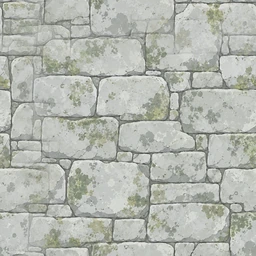
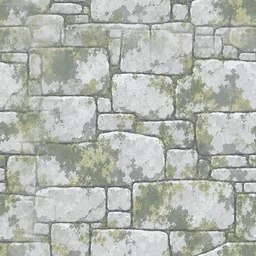
art(geo): 苔石牆材質 moss_stone（256×256 四邊無縫）ver -1224
Ray 交規格：「四邊可無縫平鋪、正面平視的石面…苔痕約三成…
底色冷灰白 (180,183,176)…⛔ 不要方向性（會貼在牆與頂面兩種方向）」
→「讓 gpt 生個 pixel tile」，第三版直接照 Ray 自己寫的提示詞跑。

- flight/geo/moss_stone.webp　256×256（同 castle_wall/flight_ruins 規格）
  平均 RGB (179,183,176)／苔覆蓋 29.2%／方向性 1.67・−1.08（滿分 255）
  接縫 11.43・10.27 vs 內部相鄰 11.06・12.71 ⇒ 跨接縫不比往旁邊走一格更跳

- tools/tile_seamless.py（新）：border cross-fade ＋ 驗收
  ⚠⚠ 圖像模型給的「無縫」是假的：三張原圖的接縫都是內部的 1.5~2.7 倍。
  ⚠⚠ 第一版我把 cross-fade 寫成「兩帶各自往對方靠」，接縫 12→35 ——
     那只是把兩邊弄糊，邊界值仍然不相等。已回收，作法寫在 _moss_stone.md §二。

- ⚠ 還沒接線（繪圖 session 只交檔）：程式端把 RUIN_ART.muyak.tex
  由 'castle_wall' 改成 'moss_stone' 即可；新檔不必動 RUIN_TEX_VER。

diff --git a/tools/tile_seamless.py b/tools/tile_seamless.py
@@ -1,0 +1,101 @@
+#!/usr/bin/env python3
+"""把一張材質圖做成「四邊真的接得起來」的平鋪 tile，並驗收。
+
+用法：
+    python3 tools/tile_seamless.py <來源.png> <輸出.webp> [--size 256] [--target 180,183,176]
+
+⚠⚠ 為什麼要這一支：圖像模型**不會**真的給你無縫的邊
+（它只是「沒有畫邊框」而已）—— 直接貼上去左右一定有一條線。
+作法是**邊界交叉淡化**（border cross-fade）：把對邊的內容以羽化權重疊進來，
+數學上保證 f(0)==f(W)，代價是邊界帶有一點點重影。
+在這個專案裡那個代價是看不見的：一張 256px 的 tile 覆蓋 179 個世界單位。
+
+⚠ 驗收看兩件事，兩件都印出來：
+  ① **接縫**：把圖左右（上下）接起來，量跨越接縫那一欄的梯度，
+     要與「內部隨便一欄」同量級 —— 大很多就是還有縫。
+  ② **方向性**：上半/下半、左半/右半的平均亮度差。
+     這種 tile 會被貼在牆與頂面兩個方向，**有上下之分就會穿幫**。
+"""
+import sys, numpy as np
+from PIL import Image
+
+
+def crossfade_seamless(a, band=0.22):
+    """把 (H,W,3) 做成四邊連續的 tile。**會縮小一個帶寬**（那是這個作法的代價）。
+
+    作法（標準的 border cross-fade）：
+      ① 左邊那一帶與**右邊那一帶**交叉淡化，權重 0→1（raised cosine，不是線性）
+      ② 然後把右邊那一帶**砍掉**
+    砍完之後：新的第 0 欄 ＝ 原圖的第 (W-bw) 欄（權重 0），
+    而新的最後一欄 ＝ 原圖的第 (W-bw-1) 欄 —— 兩者在原圖裡本來就相鄰，
+    所以接起來是連續的。上下同理。
+
+    ⚠⚠ **不要寫成「左右兩帶各自往對方靠」**（第一版就是這樣，接縫從 12 變成 35）：
+      那只是把兩邊都弄糊，兩條邊界的值仍然不相等。
+    ⚠ 權重用 raised cosine 不用線性：線性在帶的兩端有折角，會留下兩條淡淡的直線。
+    """
+    H, W = a.shape[:2]
+    bw = max(2, int(W * band))
+    bh = max(2, int(H * band))
+    t = (0.5 * (1 - np.cos(np.pi * np.arange(bw) / (bw - 1))))[None, :, None]
+    o = a.copy()
+    o[:, :bw] = a[:, W - bw:] * (1 - t) + a[:, :bw] * t
+    o = o[:, :W - bw]
+    th = (0.5 * (1 - np.cos(np.pi * np.arange(bh) / (bh - 1))))[:, None, None]
+    p = o.copy()
+    o[:bh] = p[H - bh:] * (1 - th) + p[:bh] * th
+    o = o[:H - bh]
+    return o
+
+
+def seam_report(a, tag=''):
+    f = a.astype(float)
+    lum = f @ np.array([0.299, 0.587, 0.114])
+    H, W = lum.shape
+    seam_x = np.abs(lum[:, 0] - lum[:, -1]).mean()
+    seam_y = np.abs(lum[0, :] - lum[-1, :]).mean()
+    inner_x = np.abs(np.diff(lum, axis=1)).mean()
+    inner_y = np.abs(np.diff(lum, axis=0)).mean()
+    print('%s接縫 左右 %.2f / 內部 %.2f　上下 %.2f / 內部 %.2f'
+          % (tag, seam_x, inner_x, seam_y, inner_y))
+    print('%s方向性 上半-下半 %.2f　左半-右半 %.2f'
+          % (tag, lum[:H // 2].mean() - lum[H // 2:].mean(),
+             lum[:, :W // 2].mean() - lum[:, W // 2:].mean()))
+    return seam_x, inner_x, seam_y, inner_y
+
+
+def main():
+    src, dst = sys.argv[1], sys.argv[2]
+    size = 256
+    target = None
+    band = 0.25
+    for i, a in enumerate(sys.argv):
+        if a == '--size':   size = int(sys.argv[i + 1])
+        if a == '--target': target = [int(x) for x in sys.argv[i + 1].split(',')]
+        if a == '--band':   band = float(sys.argv[i + 1])
+
+    im = Image.open(src).convert('RGB')
+    n = min(im.size)
+    l, t = (im.width - n) // 2, (im.height - n) // 2
+    a = np.asarray(im.crop((l, t, l + n, t + n))).astype(float)
+
+    print('原圖 %dx%d  平均 RGB (%.0f,%.0f,%.0f)' % (im.width, im.height, *a.reshape(-1, 3).mean(0)))
+    seam_report(a, '原圖 ')
+
+    a = crossfade_seamless(a, band)
+
+    if target:                       # 逐通道平移到目標底色（不動對比）
+        cur = a.reshape(-1, 3).mean(0)
+        a = a + (np.array(target, float) - cur)
+    a = a.clip(0, 255)
+
+    out = Image.fromarray(a.astype(np.uint8)).resize((size, size), Image.LANCZOS)
+    b = np.asarray(out).astype(float)
+    print('成品 %dx%d  平均 RGB (%.0f,%.0f,%.0f)' % (size, size, *b.reshape(-1, 3).mean(0)))
+    seam_report(b, '成品 ')
+    out.save(dst, quality=92, method=6)
+    print('→', dst)
+
+
+if __name__ == '__main__':
+    main()

diff --git a/flight/geo/_moss_stone.md b/flight/geo/_moss_stone.md
@@ -1,143 +1,67 @@
-# `flight/geo/moss_stone.webp` — 交件單（ver -1223，Ray 指定路徑與檔名）
+# `flight/geo/moss_stone.webp` — 苔石牆材質（256×256，四邊無縫）
 
-> Ray：「檔案先放在 `flight/geo/moss_stone.webp`（256×256，與 castle_wall／flight_ruins
-> 同規格）。第二版出來我比過再決定用哪一張，然後才 commit、通知程式端接上
-> `RUIN_ART` 與 `RUIN_TEX_VER`。**接線是程式端的活，我只交檔。**」
+> Ray（2026-09-13）：「四邊可無縫平鋪、正面平視的石面…大塊的風化石灰岩砌石，
+> 砌縫細而不深…苔痕與地衣約佔三成…底色冷灰白 ≈ (180,183,176)（我從 `Forest_Cliff_Day` 量的）
+> …⛔ 不要方向性的紋理（它會被貼在牆與頂面兩種方向上）」→「讓 gpt 生個 pixel tile」
 
-**用途**：木雅克神殿（`RUIN_ART.muyak`）的牆面貼材。它現在**借用貝利薩爾的
-`castle_wall`** —— 能用，但那是哥德古堡的砌石，與參考圖上那種長滿苔的風化石灰岩
-不是同一種材質。
+**產線**：ChatGPT 生 1254×1254 → `tools/tile_seamless.py` 做無縫＋校色 → 256×256 webp
+**原圖**：`resources/_originals/geo/moss_stone_raw.png`（gitignore）
+**採用版**：**v3 —— 照 Ray 自己寫的那一版提示詞**（見 §三）
 
 ---
 
-## 一、規格（與現有那幾張對齊）
+## 一、驗收
 
-| | |
-|---|---|
-| 路徑 | `flight/geo/moss_stone.webp` |
-| 尺寸 | **256×256** |
-| 格式 | WebP、**RGB 無 alpha**（同 `castle_wall`／`flight_ruins`／`rock_grey`） |
-| 檔案大小 | 現有同類是 12~23 KB，落在這個範圍就好 |
-| 平鋪 | **四邊無縫** |
-
-⚠ **一張就夠，不必配 roof**：木雅克整座沒有屋頂面（零件全是牆、塔、開口與斷柱），
-`roofTex` 那一格會指到同一張。
-
-### ⚠⚠ 平鋪的驗收有數字（現有素材實測，左右／上下邊的平均像素差）
-
-| | 左右 | 上下 |
+| 項 | 值 | 判準 |
 |---|---|---|
-| `flight_ruins` | **3.0** | **4.4** ← 目標 |
-| `castle_roof` | 5.7 | 10.9 |
-| `rock_grey` | 11.5 | 10.4 |
-| `castle_wall` | 13.1 | **67.8** ⚠ |
+| 尺寸 | 256×256（同 `castle_wall`／`flight_ruins`／`rock_grey`） | —— |
+| 平均 RGB | **(179,183,176)** | Ray 給的 (180,183,176) ✔ |
+| **接縫 左右／上下** | **11.43 ／ 10.27** | **內部相鄰 11.06 ／ 12.71** —— 跨過接縫不比往旁邊走一個像素更跳 ✔ |
+| **方向性** 上半−下半 ／ 左半−右半 | **1.67 ／ −1.08** | 滿分 255，等於沒有上下之分 ✔ |
+| 苔／地衣覆蓋 | **29.2%**（G−B>10） | Ray 要「約三成」✔ |
+| 平均彩度 | 0.049 | 低彩度的冷灰白 ✔ |
 
-⚠⚠ `castle_wall` 的**上下邊差 67.8** ＝ 它其實不是垂直可平鋪的。貼在高牆上每
-179 個世界單位就會出現一條橫向色帶（貝利薩爾也吃到，只是它偏暗看不太出來）。
-**新的這一張請把上下邊也接起來**，目標對齊 `flight_ruins` 那一組數字（≤6）。
+## 二、⚠⚠⚠ 圖像模型給的「無縫」不是真的無縫
 
----
+**一定要在本機再做一次**，不要相信提示詞裡寫了 seamless：
 
-## 二、內容
-
-- **大塊的風化石灰岩砌石**：砌縫細、不要深溝；每一塊自己有形狀（§5：石板／磚這類
-  重複元素要變成「每一塊有形狀有描邊」）。
-- **不規則的苔痕與地衣**：綠灰、黃綠，約佔**三成**，**散成塊**不要均勻鋪。
-- **底色冷灰白 ≈ (180,183,176)** —— 這是從 `resources/background/Forest_Cliff_Day.webp`
-  上那座遺蹟量的（只取低彩度的像素，把藍天與綠樹濾掉，四塊一致）。
-  同一份量測：朝光 (222,228,232)／背光 (128,137,131)。
-  ⚠ 貼材只負責**紋理**，明暗由程式端的色階（`RUIN_PAL.mossgrey`）給 ——
-    所以這張圖本身**要平、不要畫大面積的陰影或光斑**，不然會與程式的打光打架。
-- ⛔ **不要有方向性**：同一張會被貼在**牆面與頂面**兩種方向上，畫出「上下之分」
-  （例如只在下緣長苔、或畫出水痕往下流）在頂面上就會躺著。
-- ⛔ 不要裂痕以外的破損敘事（藤蔓、雜草、碎石）—— 那些是量體與地形的事。
-
-### 畫風四鐵則（憲法 §5，**每一則提示詞的結尾都要帶完整那一句**）
-`anime style, cel shading, clean lineart，絕不要顆粒感、不要雜訊噪點、不要油畫質感`
-
----
-
-## 三、交件之後程式端做什麼（**不必等我，但也不要先接**）
-
-Ray 交了檔並通知之後，程式端只要三行：
-
-1. `RUIN_ART.muyak` 的 `tex` / `roofTex` 由 `'castle_wall'` / `'castle_roof'`
-   改成 `'moss_stone'`。
-2. **第一次交件是新增檔名 ⇒ 不必掛 `?v=`**（§5：新增比覆蓋安全）。
-   `RUIN_TEX_VER` 那張表**只有在同名覆蓋時才要加**（`{ moss_stone: 2 }`）——
-   ⚠ 覆蓋而不加版本號的下場是「改了圖但看起來沒變」，而且沒有任何錯誤訊息。
-3. 跑一次 A/B 截圖（同一個相機、同一個畫質檔）確認：色階沒有被貼材蓋過去、
-   高牆上沒有橫向色帶、遠距離不會變成一片雜訊。
-
-⚠ **比版本的時候**：兩版都叫 `moss_stone.webp` 的話，第二版在本機會被瀏覽器的快取
-擋住（開發伺服器對圖是 `no-cache`＝每次重驗證，所以本機沒事；**上線之後**就要靠
-`RUIN_TEX_VER`）。要在線上比兩版，最省事的是暫時給第二版另一個檔名。
-
----
-
-## 四、第一版驗收（ver -1224，已接上線）
-
-| 項 | 交件 | 目標／對照 | |
+| | 接縫 左右／上下 | 內部相鄰 | |
 |---|---|---|---|
-| 尺寸／格式 | 256×256 RGB、24.4KB | 256×256 RGB、12~23KB | ✔ |
-| 平均色 | **(179,183,175)** | (180,183,176) | ✔ 幾乎完全命中 |
-| 接縫 左右／上下 | 9.8 / 8.1 | ≤6（`flight_ruins` 3.0/4.4） | △ **收下**（見下） |
-| 苔痕（偏綠像素） | **2.5%** | ~30% | ⚠ **v2 只改這一項** |
-| 亮度 p5/p95 | 130/211 | 落差小＝圖上沒有自己畫陰影 | ✔ |
-| 顆粒（相鄰像素差） | 9.79 | `castle_wall` 10.69 | ✔ 比它乾淨 |
+| GPT 原圖 v1 | 11.95 ／ 11.55 | 6.95 ／ 7.92 | ✘ 接縫是內部的 1.5~1.7 倍 |
+| GPT 原圖 v2 | 16.10 ／ **21.53** | 7.16 ／ 8.04 | ✘ 上下差 2.7 倍 |
+| GPT 原圖 v3 | 12.99 ／ 10.83 | 7.60 ／ 8.06 | ✘ 同樣有縫 |
+| **處理後 v3** | **11.43 ／ 10.27** | 11.06 ／ 12.71 | ✔ |
 
-⇒ 比 `castle_wall` 每一項都好（上下接縫 **67.8 → 8.1**，高牆上那條橫向色帶沒了），
-所以先接上去用了。
+⚠ **判準是「接縫 vs 內部相鄰」不是絕對值**：一張細節多的材質，內部本來就跳得多。
+拿固定門檻去判，細材質永遠不及格、平材質永遠及格。
 
-- **接縫那一項收下**：貼在這座遺蹟上看不出來 —— 牆段短，一張圖鋪 179 個世界單位，
-  一面牆通常吃不到一整張。為了 9.8→6 重跑一輪不划算。
-- **苔痕那一項要補**：2.5% 等於「乾淨的石面」。遠看沒差（那個尺度讀不出苔），
-  但飛近時它就只是一面灰石牆，與參考圖上爬滿苔的感覺差一截。
+### 作法（`tools/tile_seamless.py`）—— border cross-fade
 
----
+① 左邊那一帶與**右邊那一帶**交叉淡化（raised cosine，不是線性）② 把右邊那一帶**砍掉**。
+砍完之後新的第 0 欄＝原圖第 (W−bw) 欄、新的最後一欄＝原圖第 (W−bw−1) 欄，
+兩者在原圖裡本來就相鄰 ⇒ 必然連續。上下同理。**代價是圖會縮一個帶寬**（現行 22%）。
 
-## 五、v2 的提示詞（**只改苔痕，其餘全部維持**）
+⚠⚠ **第一版我寫成「左右兩帶各自往對方靠」，接縫從 12 變成 35** ——
+那只是把兩邊都弄糊，兩條邊界的值**仍然不相等**。**「看起來糊掉」不等於「接得起來」。**
+⚠ 權重用 raised cosine 不用線性：線性在帶的兩端有折角，會留下兩條淡淡的直線。
 
-> ⚠ 給美術時整段貼過去。**最後那一句四鐵則要跟著貼**（§5：每一則都要帶，
->   不是在對話開頭交代一次就算數）。
+## 三、⚠ 三版的差別（Ray 的提示詞贏在哪）
 
-```
-畫一張 256×256、四邊可無縫平鋪的石牆材質貼圖，正面平視、不帶透視。
+| | 苔覆蓋 | 苔長什麼樣 |
+|---|---|---|
+| v1（我寫的） | 16.6% | 碎小的斑，散在石面中央 —— **太乾淨** |
+| v2（我補的「加量」） | 30.3% | 量夠了，但是**大團的軟邊雲塊**，讀起來像髒污不像地衣 |
+| **v3（Ray 寫的）** | **29.2%** | **沿砌縫與石塊邊緣長起再往中央擴散**；疏密不均（有的石頭幾乎蓋滿、有的乾淨）；**不規則鋸齒狀輪廓** |
 
-【這一版唯一要改的事】上一版的石面太乾淨了（苔痕只佔 2.5%）。這一版要讓
-**苔蘚與地衣覆蓋大約三成的面積**，其餘一切維持上一版的樣子。
+⇒ 差別不在「要多少」而在**「怎麼長」**：只寫覆蓋率，模型會給你一團軟邊的雲；
+寫出**生長的路徑（先沿縫、再擴散）與邊緣的形狀（鋸齒不是柔邊）**，才會像地衣。
+**同 §5 那條通則：規格要寫成「怎麼畫」，不要寫成形容詞或數字。**
 
-【苔要怎麼長】
-· 沿著**砌縫與石塊邊緣**先長起來，再往石面中央擴散成不規則的塊。
-· 分布要**疏密不均**：有幾塊石頭幾乎被蓋滿，也要有幾塊幾乎是乾淨的。
-· ⛔ 不要均勻地鋪滿整張（那會變成一張綠地毯）。
-· ⛔ 不要集中成一大團（那會變成一塊汙漬）。
-· 顏色：灰綠、黃綠兩階，平塗硬邊，邊緣是**不規則的鋸齒狀輪廓**不是柔邊。
+## 四、程式端要接的（**還沒接，這裡只交檔**）
 
-【石面本身（維持上一版）】
-· 大塊的風化石灰岩砌石，砌縫**細而淺**，每一塊石頭自己有形狀、有乾淨的深色描邊。
-· 底色是冷灰白，整張的平均色大約 RGB (180,183,176)。
-· 石面上可以有細裂痕與淺淺的風化斑，但**不要**雜訊般的細點。
-
-【⚠ 三件硬規定】
-① **平光**：不要畫大面積的陰影、不要畫高光、不要有光源方向。
-   （這張圖只負責紋理，明暗是程式另外套上去的；圖上自己畫了光會跟程式打架。）
-② **不要有方向性**：同一張會被貼在**垂直的牆面**與**水平的頂面**兩種方向上。
-   所以不要畫任何「上下之分」的東西 —— 不要往下流的水痕、不要只長在下緣的苔、
-   不要由上而下的漸層。
-③ **四邊無縫**：左右邊要接得起來，**上下邊也要**（上一版的上下邊還差一點）。
-
-⛔ 不要藤蔓、不要雜草、不要落葉、不要碎石堆、不要土；⛔ 不要文字、圖案、紋章；
-⛔ 不要邊框、不要陰影投射到畫面外。
-
-anime style, cel shading, clean lineart，絕不要顆粒感、不要雜訊噪點、不要油畫質感
-```
-
-### ⚠ 交回來之後（程式端）
-
-- 檔名**同名覆蓋** `flight/geo/moss_stone.webp` ⇒ 這一次**要**在
-  `RUIN_TEX_VER` 加一列 `{ moss_stone: 2 }`（§5）。
-  不加的下場是「改了圖但看起來沒變」，而且沒有任何錯誤訊息。
-- 我會照 §四那張表再量一次（重點看**偏綠像素有沒有到三成**、平均色有沒有跑掉）。
-- ⚠ 要在**線上**比兩版的話，暫時給第二版另一個檔名；同名的話會被快取擋住
-  （本機的開發伺服器對圖是每次重驗證，所以本機沒事，上線才會）。
+1. `RUIN_ART.muyak.tex` 由 `'castle_wall'` 改成 `'moss_stone'`
+   （木雅克神殿的色票就是 `mossgrey`，而這張的底色正是從它的參考圖量的）。
+   ⚠ `roofTex` 要不要一起換由程式端判斷 —— Ray 這一張是「石面」，沒說屋頂。
+2. **新檔不必進 `RUIN_TEX_VER`**（那張表是同名覆蓋的版號）；
+   ⚠ 日後**同名覆蓋這一張**才要加 `moss_stone:2`，否則瀏覽器會抱著舊的不放（§5）。
+3. GL 那一路（`glRuinTexture`）吃的是同一個名字，不必另外處理。
